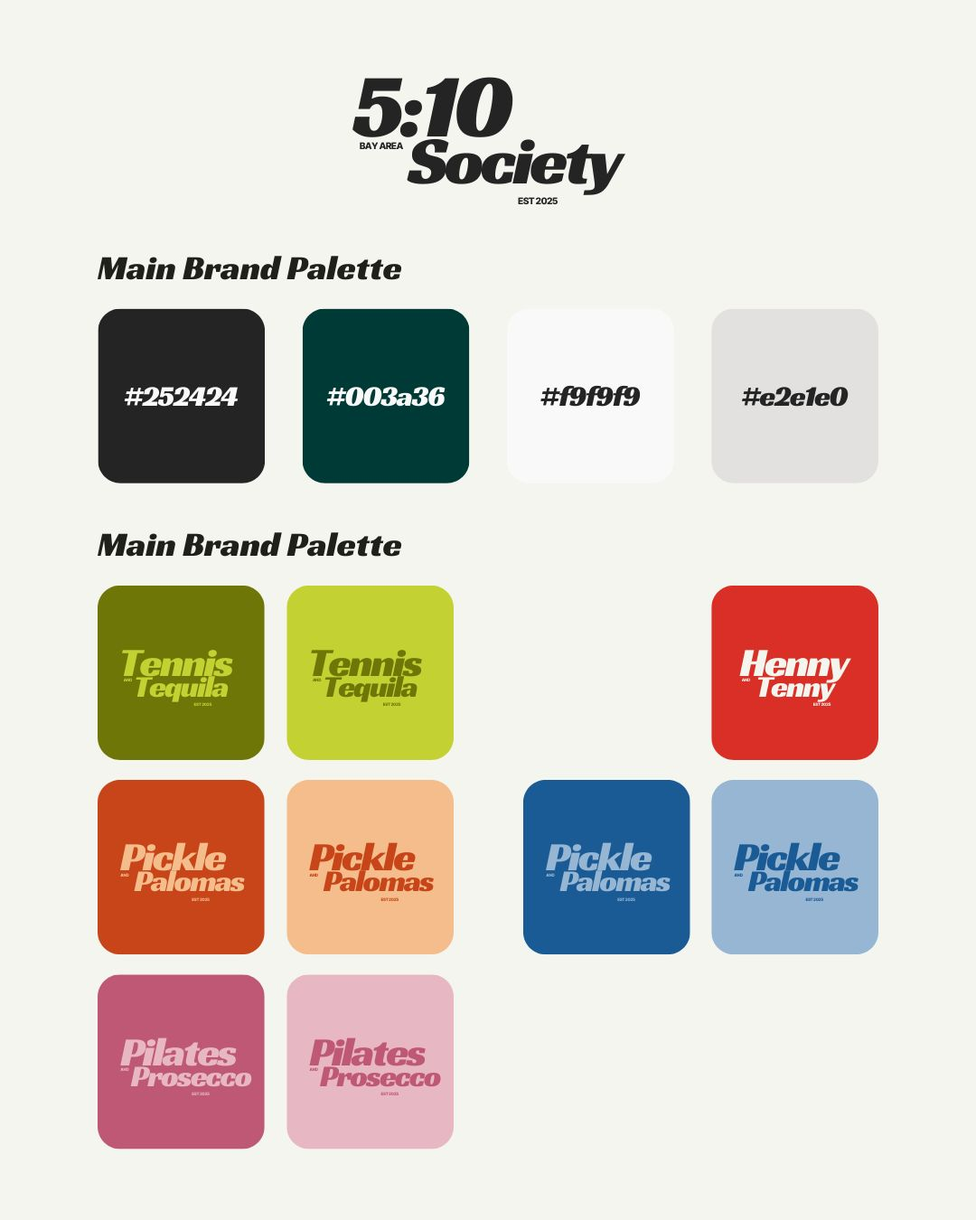
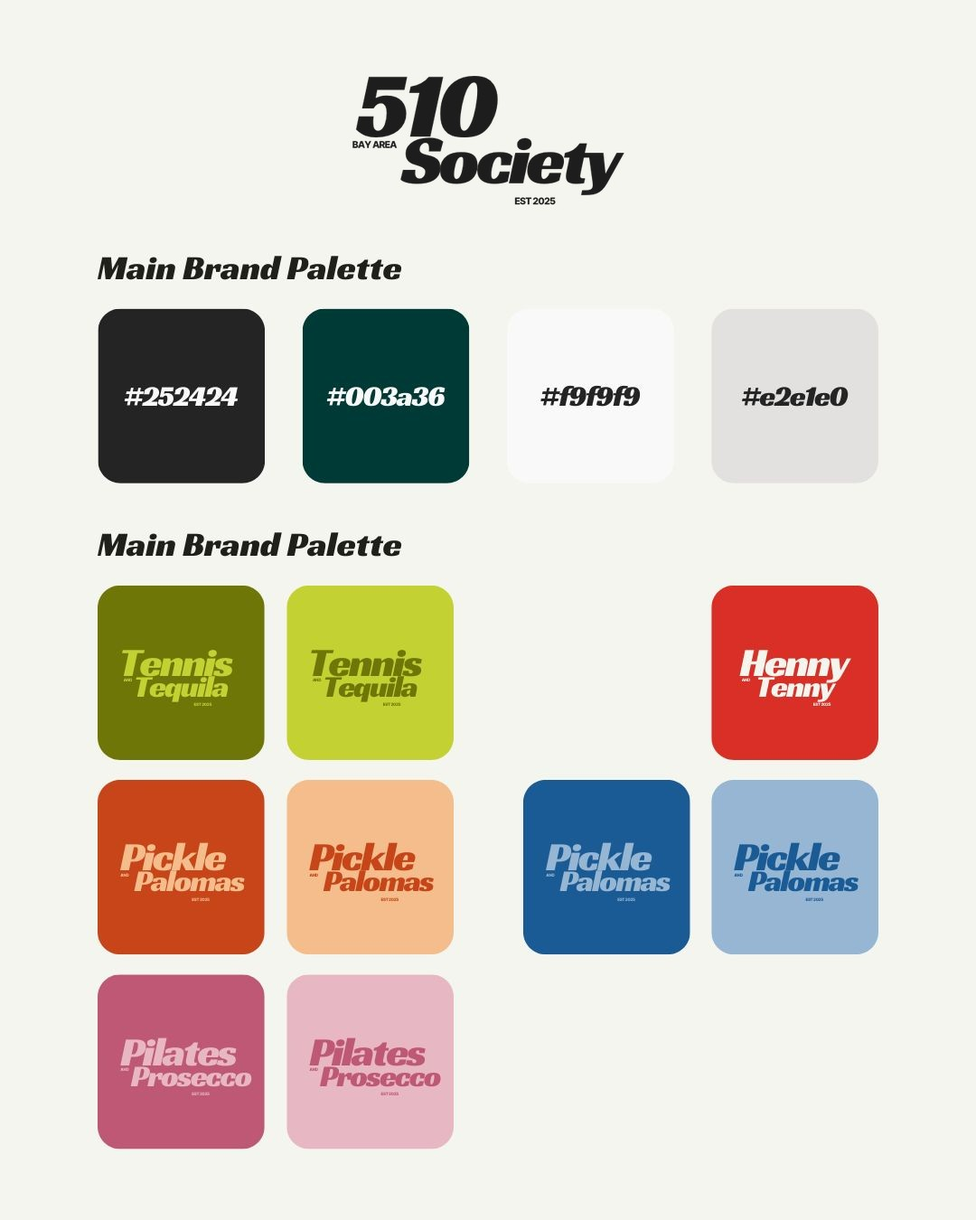
510 Society: new tennis-ball branding on cover and palette
Claude-Session: https://claude.ai/code/session_01Gh9BUT9RxXEN2dPwXvpLNA

Changed region(s): [[0.3667, 0.0622, 0.6417, 0.1867]]

diff --git a/index.html b/index.html
@@ -1266,7 +1266,7 @@ html,body{overflow-x:clip}
 <section class="band" id="brand">
   <div class="wrap">
     <div class="head rv"><div><span class="eyebrow"><i></i>Brand identity development</span><h2 class="grad" style="margin-top:14px">Branding</h2></div><p>Identity systems, rebrands and websites, each with the story behind it: the problem, the strategy and the results.</p></div>
-    <div class="pmarq bmarq rv"><div class="ptrack"><button class="bs glass csopen" data-cs="ott" aria-label="Open the Over The Top case study"><span class="pimg bsimg pan" style="background:#000"><img src="shots/brand_ott.jpg" alt="" loading="lazy" class="on"><img src="shots/thumb/ba_ott_after.jpg" alt="" loading="lazy" class=""><span class="pcount">Case study</span><span class="pdots"><i></i><i></i></span></span><span class="pcap"><em class="bsrole">Rebrand + social</em><b>Over The Top</b><span>A full rebrand for a Bay Area events company, plus sub-brands and the feed that sells them. 249K accounts reached in the last 30 days.</span></span></button><button class="bs glass csopen" data-cs="blend" aria-label="Open the The Blend + BlendFest case study"><span class="pimg bsimg pan" style="background:#f3ece2"><img src="shots/brand_blend.jpg" alt="" loading="lazy" class="on"><img src="shots/t/camp/bf_main.jpg" alt="" loading="lazy" class=""><img src="shots/thumb/tour_cups.jpg" alt="" loading="lazy" class=""><span class="pcount">Case study</span><span class="pdots"><i></i><i></i><i></i></span></span><span class="pcap"><em class="bsrole">Sub-brand + campaigns</em><b>The Blend + BlendFest</b><span>OTT's coffee and R&amp;B day party, with its own brand kit, a four-city tour and a sold-out festival of 2,000+.</span></span></button><button class="bs glass csopen" data-cs="s510" aria-label="Open the 510 Society case study"><span class="pimg bsimg cover" style="background:#0b1424"><img src="shots/thumb/s510_deck01.jpg" alt="" loading="lazy" class="on"><img src="shots/thumb/s510_palette.jpg" alt="" loading="lazy" class=""><img src="shots/510/b-tennis.png" alt="" loading="lazy" class=""><img src="shots/510/b-pilates.png" alt="" loading="lazy" class=""><img src="shots/thumb/s510_top.jpg" alt="" loading="lazy" class=""><img src="shots/thumb/s510_deck17.jpg" alt="" loading="lazy" class=""><span class="pcount">Case study</span><span class="pdots"><i></i><i></i><i></i><i></i><i></i><i></i></span></span><span class="pcap"><em class="bsrole">Identity, site, events + partnerships</em><b>510 Society</b><span>A wellness-social collective styled as a luxe country club: five event marks, a website and 2.8K+ RSVPs a year.</span></span></button><button class="bs glass csopen" data-cs="eko" aria-label="Open the Eko Kitchen case study"><span class="pimg bsimg fit" style="background:#fff"><img src="shots/thumb/deck_s07.jpg" alt="" loading="lazy" class="on"><img src="shots/thumb/deck_s08.jpg" alt="" loading="lazy" class=""><img src="shots/thumb/deck_s09.jpg" alt="" loading="lazy" class=""><img src="shots/thumb/deck_s10.jpg" alt="" loading="lazy" class=""><img src="shots/thumb/deck_s11.jpg" alt="" loading="lazy" class=""><img src="shots/thumb/deck_s22.jpg" alt="" loading="lazy" class=""><span class="pcount">Case study</span><span class="pdots"><i></i><i></i><i></i><i></i><i></i><i></i></span></span><span class="pcap"><em class="bsrole">Agency client: rebrand + social</em><b>Eko Kitchen</b><span>New logo lockups, submarks and a palette pulled from the food. 3K to 6K followers in six months.</span></span></button><button class="bs glass csopen" data-cs="glam" aria-label="Open the Glamestic case study"><span class="pimg bsimg fit" style="background:#d9d3cc"><img src="shots/thumb/glam_04.jpg" alt="" loading="lazy" class="on"><img src="shots/thumb/glam_05.jpg" alt="" loading="lazy" class=""><img src="shots/thumb/glam_13.jpg" alt="" loading="lazy" class=""><img src="shots/thumb/glam_21.jpg" alt="" loading="lazy" class=""><img src="shots/thumb/glam_24.jpg" alt="" loading="lazy" class=""><img src="shots/thumb/glam_28.jpg" alt="" loading="lazy" class=""><img src="shots/thumb/glam_31.jpg" alt="" loading="lazy" class=""><span class="pcount">Case study</span><span class="pdots"><i></i><i></i><i></i><i></i><i></i><i></i><i></i></span></span><span class="pcap"><em class="bsrole">Agency client: rebrand</em><b>Glamestic</b><span>A brow and beauty studio: wordmark, eye-and-brow submark, neutral palette, type system and stationery.</span></span></button><button class="bs glass csopen" data-cs="ori" aria-label="Open the Whipped Ori case study"><span class="pimg bsimg fit" style="background:#f4ece0"><img src="shots/thumb/ori_a.jpg" alt="" loading="lazy" class="on"><img src="shots/thumb/ori_b.jpg" alt="" loading="lazy" class=""><img src="shots/thumb/ori_c.jpg" alt="" loading="lazy" class=""><span class="pcount">Case study</span><span class="pdots"><i></i><i></i><i></i></span></span><span class="pcap"><em class="bsrole">Agency client: rebrand</em><b>Whipped Ori</b><span>A whipped shea butter brand: a hand-drawn wordmark and a palette pulled from the ingredients.</span></span></button><a class="bs glass" href="https://www.travelhaeven.com" target="_blank" rel="noopener" aria-label="Visit the Travel Haeven site"><span class="pimg bsimg cover" style="background:#111"><img src="shots/thumb/haeven_top.jpg" alt="" loading="lazy" class="on"><span class="pcount">Visit site ↗</span><span class="pdots"></span></span><span class="pcap"><em class="bsrole">Website design</em><b>Travel Haeven</b><span>A Caribbean travel company selling Carnival packages, with a build-your-package flow.</span></span></a><a class="bs glass" href="https://www.wowcarnival.com" target="_blank" rel="noopener" aria-label="Visit the WoW Events site"><span class="pimg bsimg cover" style="background:#111"><img src="shots/thumb/wow_top.jpg" alt="" loading="lazy" class="on"><span class="pcount">Visit site ↗</span><span class="pdots"></span></span><span class="pcap"><em class="bsrole">Website design</em><b>WoW Events</b><span>A Trinidad and Tobago carnival events company, told through video-led storytelling.</span></span></a><button aria-hidden="true" tabindex="-1" class="bs glass csopen" data-cs="ott" aria-label="Open the Over The Top case study"><span class="pimg bsimg pan" style="background:#000"><img src="shots/brand_ott.jpg" alt="" loading="lazy" class="on"><img src="shots/thumb/ba_ott_after.jpg" alt="" loading="lazy" class=""><span class="pcount">Case study</span><span class="pdots"><i></i><i></i></span></span><span class="pcap"><em class="bsrole">Rebrand + social</em><b>Over The Top</b><span>A full rebrand for a Bay Area events company, plus sub-brands and the feed that sells them. 249K accounts reached in the last 30 days.</span></span></button><button aria-hidden="true" tabindex="-1" class="bs glass csopen" data-cs="blend" aria-label="Open the The Blend + BlendFest case study"><span class="pimg bsimg pan" style="background:#f3ece2"><img src="shots/brand_blend.jpg" alt="" loading="lazy" class="on"><img src="shots/t/camp/bf_main.jpg" alt="" loading="lazy" class=""><img src="shots/thumb/tour_cups.jpg" alt="" loading="lazy" class=""><span class="pcount">Case study</span><span class="pdots"><i></i><i></i><i></i></span></span><span class="pcap"><em class="bsrole">Sub-brand + campaigns</em><b>The Blend + BlendFest</b><span>OTT's coffee and R&amp;B day party, with its own brand kit, a four-city tour and a sold-out festival of 2,000+.</span></span></button><button aria-hidden="true" tabindex="-1" class="bs glass csopen" data-cs="s510" aria-label="Open the 510 Society case study"><span class="pimg bsimg cover" style="background:#0b1424"><img src="shots/thumb/s510_deck01.jpg" alt="" loading="lazy" class="on"><img src="shots/thumb/s510_palette.jpg" alt="" loading="lazy" class=""><img src="shots/510/b-tennis.png" alt="" loading="lazy" class=""><img src="shots/510/b-pilates.png" alt="" loading="lazy" class=""><img src="shots/thumb/s510_top.jpg" alt="" loading="lazy" class=""><img src="shots/thumb/s510_deck17.jpg" alt="" loading="lazy" class=""><span class="pcount">Case study</span><span class="pdots"><i></i><i></i><i></i><i></i><i></i><i></i></span></span><span class="pcap"><em class="bsrole">Identity, site, events + partnerships</em><b>510 Society</b><span>A wellness-social collective styled as a luxe country club: five event marks, a website and 2.8K+ RSVPs a year.</span></span></button><button aria-hidden="true" tabindex="-1" class="bs glass csopen" data-cs="eko" aria-label="Open the Eko Kitchen case study"><span class="pimg bsimg fit" style="background:#fff"><img src="shots/thumb/deck_s07.jpg" alt="" loading="lazy" class="on"><img src="shots/thumb/deck_s08.jpg" alt="" loading="lazy" class=""><img src="shots/thumb/deck_s09.jpg" alt="" loading="lazy" class=""><img src="shots/thumb/deck_s10.jpg" alt="" loading="lazy" class=""><img src="shots/thumb/deck_s11.jpg" alt="" loading="lazy" class=""><img src="shots/thumb/deck_s22.jpg" alt="" loading="lazy" class=""><span class="pcount">Case study</span><span class="pdots"><i></i><i></i><i></i><i></i><i></i><i></i></span></span><span class="pcap"><em class="bsrole">Agency client: rebrand + social</em><b>Eko Kitchen</b><span>New logo lockups, submarks and a palette pulled from the food. 3K to 6K followers in six months.</span></span></button><button aria-hidden="true" tabindex="-1" class="bs glass csopen" data-cs="glam" aria-label="Open the Glamestic case study"><span class="pimg bsimg fit" style="background:#d9d3cc"><img src="shots/thumb/glam_04.jpg" alt="" loading="lazy" class="on"><img src="shots/thumb/glam_05.jpg" alt="" loading="lazy" class=""><img src="shots/thumb/glam_13.jpg" alt="" loading="lazy" class=""><img src="shots/thumb/glam_21.jpg" alt="" loading="lazy" class=""><img src="shots/thumb/glam_24.jpg" alt="" loading="lazy" class=""><img src="shots/thumb/glam_28.jpg" alt="" loading="lazy" class=""><img src="shots/thumb/glam_31.jpg" alt="" loading="lazy" class=""><span class="pcount">Case study</span><span class="pdots"><i></i><i></i><i></i><i></i><i></i><i></i><i></i></span></span><span class="pcap"><em class="bsrole">Agency client: rebrand</em><b>Glamestic</b><span>A brow and beauty studio: wordmark, eye-and-brow submark, neutral palette, type system and stationery.</span></span></button><button aria-hidden="true" tabindex="-1" class="bs glass csopen" data-cs="ori" aria-label="Open the Whipped Ori case study"><span class="pimg bsimg fit" style="background:#f4ece0"><img src="shots/thumb/ori_a.jpg" alt="" loading="lazy" class="on"><img src="shots/thumb/ori_b.jpg" alt="" loading="lazy" class=""><img src="shots/thumb/ori_c.jpg" alt="" loading="lazy" class=""><span class="pcount">Case study</span><span class="pdots"><i></i><i></i><i></i></span></span><span class="pcap"><em class="bsrole">Agency client: rebrand</em><b>Whipped Ori</b><span>A whipped shea butter brand: a hand-drawn wordmark and a palette pulled from the ingredients.</span></span></button><a aria-hidden="true" tabindex="-1" class="bs glass" href="https://www.travelhaeven.com" target="_blank" rel="noopener" aria-label="Visit the Travel Haeven site"><span class="pimg bsimg cover" style="background:#111"><img src="shots/thumb/haeven_top.jpg" alt="" loading="lazy" class="on"><span class="pcount">Visit site ↗</span><span class="pdots"></span></span><span class="pcap"><em class="bsrole">Website design</em><b>Travel Haeven</b><span>A Caribbean travel company selling Carnival packages, with a build-your-package flow.</span></span></a><a aria-hidden="true" tabindex="-1" class="bs glass" href="https://www.wowcarnival.com" target="_blank" rel="noopener" aria-label="Visit the WoW Events site"><span class="pimg bsimg cover" style="background:#111"><img src="shots/thumb/wow_top.jpg" alt="" loading="lazy" class="on"><span class="pcount">Visit site ↗</span><span class="pdots"></span></span><span class="pcap"><em class="bsrole">Website design</em><b>WoW Events</b><span>A Trinidad and Tobago carnival events company, told through video-led storytelling.</span></span></a></div></div>
+    <div class="pmarq bmarq rv"><div class="ptrack"><button class="bs glass csopen" data-cs="ott" aria-label="Open the Over The Top case study"><span class="pimg bsimg pan" style="background:#000"><img src="shots/brand_ott.jpg" alt="" loading="lazy" class="on"><img src="shots/thumb/ba_ott_after.jpg" alt="" loading="lazy" class=""><span class="pcount">Case study</span><span class="pdots"><i></i><i></i></span></span><span class="pcap"><em class="bsrole">Rebrand + social</em><b>Over The Top</b><span>A full rebrand for a Bay Area events company, plus sub-brands and the feed that sells them. 249K accounts reached in the last 30 days.</span></span></button><button class="bs glass csopen" data-cs="blend" aria-label="Open the The Blend + BlendFest case study"><span class="pimg bsimg pan" style="background:#f3ece2"><img src="shots/brand_blend.jpg" alt="" loading="lazy" class="on"><img src="shots/t/camp/bf_main.jpg" alt="" loading="lazy" class=""><img src="shots/thumb/tour_cups.jpg" alt="" loading="lazy" class=""><span class="pcount">Case study</span><span class="pdots"><i></i><i></i><i></i></span></span><span class="pcap"><em class="bsrole">Sub-brand + campaigns</em><b>The Blend + BlendFest</b><span>OTT's coffee and R&amp;B day party, with its own brand kit, a four-city tour and a sold-out festival of 2,000+.</span></span></button><button class="bs glass csopen" data-cs="s510" aria-label="Open the 510 Society case study"><span class="pimg bsimg cover" style="background:#0b1424"><img src="shots/thumb/s510_cover.jpg" alt="" loading="lazy" class="on"><img src="shots/thumb/s510_palette.jpg" alt="" loading="lazy" class=""><img src="shots/510/b-tennis.png" alt="" loading="lazy" class=""><img src="shots/510/b-pilates.png" alt="" loading="lazy" class=""><img src="shots/thumb/s510_top.jpg" alt="" loading="lazy" class=""><img src="shots/thumb/s510_deck17.jpg" alt="" loading="lazy" class=""><span class="pcount">Case study</span><span class="pdots"><i></i><i></i><i></i><i></i><i></i><i></i></span></span><span class="pcap"><em class="bsrole">Identity, site, events + partnerships</em><b>510 Society</b><span>A wellness-social collective styled as a luxe country club: five event marks, a website and 2.8K+ RSVPs a year.</span></span></button><button class="bs glass csopen" data-cs="eko" aria-label="Open the Eko Kitchen case study"><span class="pimg bsimg fit" style="background:#fff"><img src="shots/thumb/deck_s07.jpg" alt="" loading="lazy" class="on"><img src="shots/thumb/deck_s08.jpg" alt="" loading="lazy" class=""><img src="shots/thumb/deck_s09.jpg" alt="" loading="lazy" class=""><img src="shots/thumb/deck_s10.jpg" alt="" loading="lazy" class=""><img src="shots/thumb/deck_s11.jpg" alt="" loading="lazy" class=""><img src="shots/thumb/deck_s22.jpg" alt="" loading="lazy" class=""><span class="pcount">Case study</span><span class="pdots"><i></i><i></i><i></i><i></i><i></i><i></i></span></span><span class="pcap"><em class="bsrole">Agency client: rebrand + social</em><b>Eko Kitchen</b><span>New logo lockups, submarks and a palette pulled from the food. 3K to 6K followers in six months.</span></span></button><button class="bs glass csopen" data-cs="glam" aria-label="Open the Glamestic case study"><span class="pimg bsimg fit" style="background:#d9d3cc"><img src="shots/thumb/glam_04.jpg" alt="" loading="lazy" class="on"><img src="shots/thumb/glam_05.jpg" alt="" loading="lazy" class=""><img src="shots/thumb/glam_13.jpg" alt="" loading="lazy" class=""><img src="shots/thumb/glam_21.jpg" alt="" loading="lazy" class=""><img src="shots/thumb/glam_24.jpg" alt="" loading="lazy" class=""><img src="shots/thumb/glam_28.jpg" alt="" loading="lazy" class=""><img src="shots/thumb/glam_31.jpg" alt="" loading="lazy" class=""><span class="pcount">Case study</span><span class="pdots"><i></i><i></i><i></i><i></i><i></i><i></i><i></i></span></span><span class="pcap"><em class="bsrole">Agency client: rebrand</em><b>Glamestic</b><span>A brow and beauty studio: wordmark, eye-and-brow submark, neutral palette, type system and stationery.</span></span></button><button class="bs glass csopen" data-cs="ori" aria-label="Open the Whipped Ori case study"><span class="pimg bsimg fit" style="background:#f4ece0"><img src="shots/thumb/ori_a.jpg" alt="" loading="lazy" class="on"><img src="shots/thumb/ori_b.jpg" alt="" loading="lazy" class=""><img src="shots/thumb/ori_c.jpg" alt="" loading="lazy" class=""><span class="pcount">Case study</span><span class="pdots"><i></i><i></i><i></i></span></span><span class="pcap"><em class="bsrole">Agency client: rebrand</em><b>Whipped Ori</b><span>A whipped shea butter brand: a hand-drawn wordmark and a palette pulled from the ingredients.</span></span></button><a class="bs glass" href="https://www.travelhaeven.com" target="_blank" rel="noopener" aria-label="Visit the Travel Haeven site"><span class="pimg bsimg cover" style="background:#111"><img src="shots/thumb/haeven_top.jpg" alt="" loading="lazy" class="on"><span class="pcount">Visit site ↗</span><span class="pdots"></span></span><span class="pcap"><em class="bsrole">Website design</em><b>Travel Haeven</b><span>A Caribbean travel company selling Carnival packages, with a build-your-package flow.</span></span></a><a class="bs glass" href="https://www.wowcarnival.com" target="_blank" rel="noopener" aria-label="Visit the WoW Events site"><span class="pimg bsimg cover" style="background:#111"><img src="shots/thumb/wow_top.jpg" alt="" loading="lazy" class="on"><span class="pcount">Visit site ↗</span><span class="pdots"></span></span><span class="pcap"><em class="bsrole">Website design</em><b>WoW Events</b><span>A Trinidad and Tobago carnival events company, told through video-led storytelling.</span></span></a><button aria-hidden="true" tabindex="-1" class="bs glass csopen" data-cs="ott" aria-label="Open the Over The Top case study"><span class="pimg bsimg pan" style="background:#000"><img src="shots/brand_ott.jpg" alt="" loading="lazy" class="on"><img src="shots/thumb/ba_ott_after.jpg" alt="" loading="lazy" class=""><span class="pcount">Case study</span><span class="pdots"><i></i><i></i></span></span><span class="pcap"><em class="bsrole">Rebrand + social</em><b>Over The Top</b><span>A full rebrand for a Bay Area events company, plus sub-brands and the feed that sells them. 249K accounts reached in the last 30 days.</span></span></button><button aria-hidden="true" tabindex="-1" class="bs glass csopen" data-cs="blend" aria-label="Open the The Blend + BlendFest case study"><span class="pimg bsimg pan" style="background:#f3ece2"><img src="shots/brand_blend.jpg" alt="" loading="lazy" class="on"><img src="shots/t/camp/bf_main.jpg" alt="" loading="lazy" class=""><img src="shots/thumb/tour_cups.jpg" alt="" loading="lazy" class=""><span class="pcount">Case study</span><span class="pdots"><i></i><i></i><i></i></span></span><span class="pcap"><em class="bsrole">Sub-brand + campaigns</em><b>The Blend + BlendFest</b><span>OTT's coffee and R&amp;B day party, with its own brand kit, a four-city tour and a sold-out festival of 2,000+.</span></span></button><button aria-hidden="true" tabindex="-1" class="bs glass csopen" data-cs="s510" aria-label="Open the 510 Society case study"><span class="pimg bsimg cover" style="background:#0b1424"><img src="shots/thumb/s510_cover.jpg" alt="" loading="lazy" class="on"><img src="shots/thumb/s510_palette.jpg" alt="" loading="lazy" class=""><img src="shots/510/b-tennis.png" alt="" loading="lazy" class=""><img src="shots/510/b-pilates.png" alt="" loading="lazy" class=""><img src="shots/thumb/s510_top.jpg" alt="" loading="lazy" class=""><img src="shots/thumb/s510_deck17.jpg" alt="" loading="lazy" class=""><span class="pcount">Case study</span><span class="pdots"><i></i><i></i><i></i><i></i><i></i><i></i></span></span><span class="pcap"><em class="bsrole">Identity, site, events + partnerships</em><b>510 Society</b><span>A wellness-social collective styled as a luxe country club: five event marks, a website and 2.8K+ RSVPs a year.</span></span></button><button aria-hidden="true" tabindex="-1" class="bs glass csopen" data-cs="eko" aria-label="Open the Eko Kitchen case study"><span class="pimg bsimg fit" style="background:#fff"><img src="shots/thumb/deck_s07.jpg" alt="" loading="lazy" class="on"><img src="shots/thumb/deck_s08.jpg" alt="" loading="lazy" class=""><img src="shots/thumb/deck_s09.jpg" alt="" loading="lazy" class=""><img src="shots/thumb/deck_s10.jpg" alt="" loading="lazy" class=""><img src="shots/thumb/deck_s11.jpg" alt="" loading="lazy" class=""><img src="shots/thumb/deck_s22.jpg" alt="" loading="lazy" class=""><span class="pcount">Case study</span><span class="pdots"><i></i><i></i><i></i><i></i><i></i><i></i></span></span><span class="pcap"><em class="bsrole">Agency client: rebrand + social</em><b>Eko Kitchen</b><span>New logo lockups, submarks and a palette pulled from the food. 3K to 6K followers in six months.</span></span></button><button aria-hidden="true" tabindex="-1" class="bs glass csopen" data-cs="glam" aria-label="Open the Glamestic case study"><span class="pimg bsimg fit" style="background:#d9d3cc"><img src="shots/thumb/glam_04.jpg" alt="" loading="lazy" class="on"><img src="shots/thumb/glam_05.jpg" alt="" loading="lazy" class=""><img src="shots/thumb/glam_13.jpg" alt="" loading="lazy" class=""><img src="shots/thumb/glam_21.jpg" alt="" loading="lazy" class=""><img src="shots/thumb/glam_24.jpg" alt="" loading="lazy" class=""><img src="shots/thumb/glam_28.jpg" alt="" loading="lazy" class=""><img src="shots/thumb/glam_31.jpg" alt="" loading="lazy" class=""><span class="pcount">Case study</span><span class="pdots"><i></i><i></i><i></i><i></i><i></i><i></i><i></i></span></span><span class="pcap"><em class="bsrole">Agency client: rebrand</em><b>Glamestic</b><span>A brow and beauty studio: wordmark, eye-and-brow submark, neutral palette, type system and stationery.</span></span></button><button aria-hidden="true" tabindex="-1" class="bs glass csopen" data-cs="ori" aria-label="Open the Whipped Ori case study"><span class="pimg bsimg fit" style="background:#f4ece0"><img src="shots/thumb/ori_a.jpg" alt="" loading="lazy" class="on"><img src="shots/thumb/ori_b.jpg" alt="" loading="lazy" class=""><img src="shots/thumb/ori_c.jpg" alt="" loading="lazy" class=""><span class="pcount">Case study</span><span class="pdots"><i></i><i></i><i></i></span></span><span class="pcap"><em class="bsrole">Agency client: rebrand</em><b>Whipped Ori</b><span>A whipped shea butter brand: a hand-drawn wordmark and a palette pulled from the ingredients.</span></span></button><a aria-hidden="true" tabindex="-1" class="bs glass" href="https://www.travelhaeven.com" target="_blank" rel="noopener" aria-label="Visit the Travel Haeven site"><span class="pimg bsimg cover" style="background:#111"><img src="shots/thumb/haeven_top.jpg" alt="" loading="lazy" class="on"><span class="pcount">Visit site ↗</span><span class="pdots"></span></span><span class="pcap"><em class="bsrole">Website design</em><b>Travel Haeven</b><span>A Caribbean travel company selling Carnival packages, with a build-your-package flow.</span></span></a><a aria-hidden="true" tabindex="-1" class="bs glass" href="https://www.wowcarnival.com" target="_blank" rel="noopener" aria-label="Visit the WoW Events site"><span class="pimg bsimg cover" style="background:#111"><img src="shots/thumb/wow_top.jpg" alt="" loading="lazy" class="on"><span class="pcount">Visit site ↗</span><span class="pdots"></span></span><span class="pcap"><em class="bsrole">Website design</em><b>WoW Events</b><span>A Trinidad and Tobago carnival events company, told through video-led storytelling.</span></span></a></div></div>
   </div>
 </section>
 
@@ -1465,7 +1465,7 @@ const CS={
      ['The strategy',['<b>Where wellness meets libations.</b> Every event pairs movement with a social ritual: Pilates &amp; Prosecco, Tennis &amp; Tequila, Pickle &amp; Palomas.','Give each series its own colour pair inside one system, so every event feels new while staying unmistakably 510.','Let real photos from past events sell the next one, and give every sponsor and vendor their own post.','Package every event as a partnership, with tiers for product placement, brand activation and official event sponsor.']],
      ['The work',['A primary identity with a tennis-ball mark, a core palette of charcoal, deep green and soft greys, and five event sub-brands.','A rebrand from 5:10 Society to 510, with a website I designed and built, including upcoming events, a member list and partner sign-ups.','Full campaign rollouts for every event, from announce to last call.','A brand partnerships and sponsorship deck covering the audience, the market and partner tiers.']],
      ['The results',['2.8K+ RSVPs and 1.1K+ check-ins in the last 12 months, before collaborations and same-day door sales.','Pilates &amp; Prosecco became the signature series, drawing 570+ attendees across three editions.','Tennis &amp; Tequila drew 330+ across two editions, and the Country Club Day Party hit a 94% fill rate.','Partners including Hennessy, Moët Hennessy and USTA Northern California for Henny &amp; Tenny at the Black Joy Parade, plus Dobel Tequila, Subway, Black Girl Cancer Club and Vibes &amp; Vines.','Instagram followers nearly doubled, from 3.8K to 7.4K, in under six months. In the last 90 days: 880K+ views (up 10%), followers up 17% and 15K average profile visits.','The one-year anniversary hosted 500 guests.']]],
-  imgs:['shots/camp/s510_deck01.jpg','shots/camp/s510_deck03.jpg','shots/camp/s510_deck04.jpg','shots/camp/s510_deck07.jpg','shots/camp/s510_deck08.jpg','shots/camp/s510_deck09.jpg','shots/camp/s510_deck14.jpg','shots/camp/s510_deck17.jpg','shots/camp/s510_deck21.jpg','shots/camp/s510_palette.jpg','shots/s510.jpg','shots/camp/pp_main.jpg','shots/camp/s510_tennis.jpg','shots/camp/s510_country.jpg','shots/camp/cc_pour.jpg','shots/camp/s510_anniv.jpg'],wide:1},
+  imgs:['shots/camp/s510_cover.jpg','shots/camp/s510_deck03.jpg','shots/camp/s510_deck04.jpg','shots/camp/s510_deck07.jpg','shots/camp/s510_deck08.jpg','shots/camp/s510_deck09.jpg','shots/camp/s510_deck14.jpg','shots/camp/s510_deck17.jpg','shots/camp/s510_deck21.jpg','shots/camp/s510_palette.jpg','shots/s510.jpg','shots/camp/pp_main.jpg','shots/camp/s510_tennis.jpg','shots/camp/s510_country.jpg','shots/camp/cc_pour.jpg','shots/camp/s510_anniv.jpg'],wide:1},
  glam:{t:'Glamestic',r:'Agency client: rebrand',lede:'Glamestic is a brow and beauty studio. I rebranded it with a full brand guide built to feel calm, precise and premium, like the work the studio does.',
   res:[['2','logo systems: wordmark and submark'],['6','colours in the palette'],['4','typefaces with defined roles']],
   b:[['The brief',['Give a brow and beauty studio an identity that matches its precision and its premium service.','Make it flexible enough for signage, stationery, social and phone screens.']],
